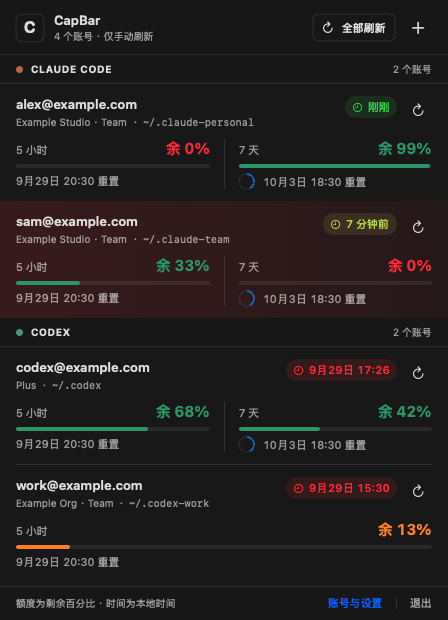
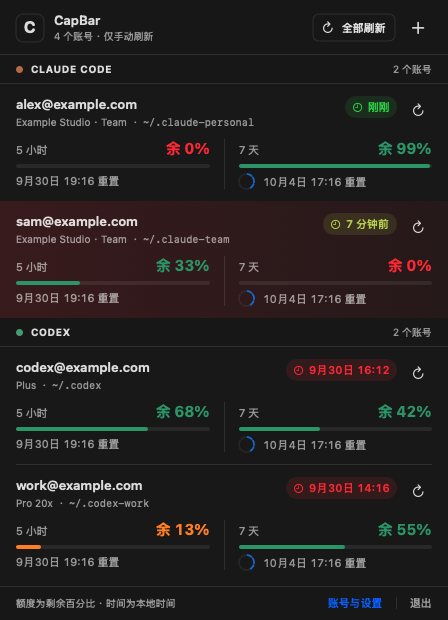
release: prepare CapBar 0.2.0

diff --git a/README.md b/README.md
@@ -1,7 +1,7 @@
 # CapBar
 
 [![CI](https://github.com/kikkimo/CapBar/actions/workflows/ci.yml/badge.svg?branch=main)](https://github.com/kikkimo/CapBar/actions/workflows/ci.yml)
-[![Version 0.1.4](https://img.shields.io/badge/version-0.1.4-2F80ED?style=flat-square)](scripts/Info.plist)
+[![Version 0.2.0](https://img.shields.io/badge/version-0.2.0-2F80ED?style=flat-square)](scripts/Info.plist)
 [![macOS 14+](https://img.shields.io/badge/macOS-14%2B-333333?style=flat-square&logo=apple&logoColor=white)](#install-and-use)
 [![Swift 6](https://img.shields.io/badge/Swift-6-F05138?style=flat-square&logo=swift&logoColor=white)](Package.swift)
 [![Apple Silicon](https://img.shields.io/badge/arch-Apple%20Silicon-0A7F75?style=flat-square)](#build-from-source)
@@ -26,6 +26,7 @@
 - **Clear states:** Refreshing accounts show progress while keeping their previous values. A failed refresh preserves the last successful snapshot and marks the failure.
 - **Native macOS behavior:** Light and dark appearances, a resizable popover, a right-click menu, and an optional launch-at-login setting.
 - **Optional usage trends:** Switch between one total chart per provider and individual account charts. Totals convert each subscription to the first account's capacity before adding usage, and are labeled as estimates because provider 7-day capacity ratios are unverified. Ambiguous plans require a tier selection in Settings. Trend colors adapt to each provider's observed range. Enabling statistics also enables scheduled sampling while CapBar runs; the interval defaults to 4 hours and can be set to 1, 2, 3, 4, 6, or 8 hours. Manual refreshes contribute samples too. Chart bins match the selected interval, with a 2-hour minimum.
+- **Usage analysis:** The provider view shows observed 7-day totals, peak, minimum, average, coverage, leading account, active time periods, and recent 24-hour change. Historical records track rolling 7-day highs and lows, the highest single day, and the highest interval. Missing intervals stay blank; the headline uses the latest fully observed interval.
 
 | 7-day usage trend, dark appearance | 7-day usage trend, light appearance |
 | :---: | :---: |
@@ -35,14 +36,18 @@
 | :---: |
 | ![CapBar individual account usage trends](docs/images/trend-individual-light.png) |
 
-*Trend illustrations use fictional accounts and sample history. The aggregate view is in this development branch and is not part of the current 0.1.4 installer.*
+| Provider usage analysis, dark | Provider usage analysis, light |
+| :---: | :---: |
+| ![CapBar provider usage analysis in dark appearance](docs/images/trend-expanded-dark.png) | ![CapBar provider usage analysis in light appearance](docs/images/trend-expanded-light.png) |
+
+*Trend illustrations use fictional accounts and sample history.*
 
 ## Install and use
 
-CapBar 0.1.4 requires **macOS 14 or later** on **Apple Silicon**. Download the CI-built installer and checksum from [GitHub Releases](https://github.com/kikkimo/CapBar/releases/latest).
+CapBar 0.2.0 requires **macOS 14 or later** on **Apple Silicon**. Download the CI-built installer and checksum from [GitHub Releases](https://github.com/kikkimo/CapBar/releases/latest).
 
-1. Download `CapBar-0.1.4.pkg` and `SHA256SUMS` from the release, then run `shasum -a 256 -c SHA256SUMS` in that folder.
-2. Open `CapBar-0.1.4.pkg`. The installer places the app at `/Applications/CapBar.app`.
+1. Download `CapBar-0.2.0.pkg` and `SHA256SUMS` from the release, then run `shasum -a 256 -c SHA256SUMS` in that folder.
+2. Open `CapBar-0.2.0.pkg`. The installer places the app at `/Applications/CapBar.app`.
 3. Launch CapBar from Applications. It appears in the menu bar, without a Dock icon.
 4. Click the menu bar item to view snapshots. Select **Refresh All (全部刷新)** or refresh an individual account when you want current data.
 
@@ -60,7 +65,7 @@ On first launch, CapBar adds `~/.claude` and `~/.codex` as default entries. Add 
 
 The popover starts at 448 × 620 pt. Enter a precise width or height and submit it, or use the steppers in 10 pt increments. Wider windows rearrange account details horizontally. Snapshots and settings are stored as JSON under `~/Library/Application Support/CapBar/`.
 
-Usage statistics are off by default. Turning them on also starts scheduled quota probes while the app runs; turning them off stops the schedule. Successful probes are kept in a local SQLite history. Charts use UTC intervals and display dates in your local time zone. A complete interval needs enough observations before its usage can appear; missing intervals are not treated as zero usage. The development branch stores the detected or manually selected plan tier alongside new historical samples; older samples without a tier use the current calibrated tier for estimated totals.
+Usage statistics are off by default. Turning them on also starts scheduled quota probes while the app runs; turning them off stops the schedule. Successful probes are kept in a local SQLite history. Charts use UTC intervals and display dates in your local time zone. A complete interval needs enough observations before its usage can appear; missing intervals are not treated as zero usage. New samples store the detected or selected plan tier; older samples without a tier use the current calibrated tier for estimated totals.
 
 ## How quota refresh works
 
@@ -78,7 +83,7 @@ cd CapBar
 ./scripts/package-installer.sh
 ```
 
-The script runs the checks, builds `dist/CapBar.app`, verifies the app bundle, and creates `dist/CapBar-0.1.4.pkg`. It verifies that the package targets `/Applications` **without relocating** to an existing development copy.
+The script runs the checks, builds `dist/CapBar.app`, verifies the app bundle, and creates `dist/CapBar-0.2.0.pkg`. It verifies that the package targets `/Applications` **without relocating** to an existing development copy.
 
 ```sh
 swift run CapBarChecks

diff --git a/docs/README-zh.md b/docs/README-zh.md
@@ -1,7 +1,7 @@
 # CapBar
 
 [![CI](https://github.com/kikkimo/CapBar/actions/workflows/ci.yml/badge.svg?branch=main)](https://github.com/kikkimo/CapBar/actions/workflows/ci.yml)
-[![Version 0.1.4](https://img.shields.io/badge/version-0.1.4-2F80ED?style=flat-square)](../scripts/Info.plist)
+[![Version 0.2.0](https://img.shields.io/badge/version-0.2.0-2F80ED?style=flat-square)](../scripts/Info.plist)
 [![macOS 14+](https://img.shields.io/badge/macOS-14%2B-333333?style=flat-square&logo=apple&logoColor=white)](#安装与使用)
 [![Swift 6](https://img.shields.io/badge/Swift-6-F05138?style=flat-square&logo=swift&logoColor=white)](../Package.swift)
 [![Apple Silicon](https://img.shields.io/badge/arch-Apple%20Silicon-0A7F75?style=flat-square)](#从源码构建)
@@ -26,6 +26,7 @@
 - **状态清楚：** 刷新时显示进度并保留旧额度；失败后继续显示上一次成功快照，同时标记失败。
 - **符合 macOS 的交互：** 支持浅色和深色外观、可调整尺寸的弹窗、菜单栏右键菜单，以及可选的登录时启动。
 - **可选用量走势：** 可切换 Claude、Codex 各一张总走势图与单账号走势图。总走势先按首账号容量折算各订阅的用量再相加；由于各套餐七日容量比例尚未证实，界面明确标记“估算”。无法细分的套餐须在设置中选择档位。曲线颜色按各服务的实际观测范围自适应。开启统计后，CapBar 运行期间会定时采样；间隔默认 4 小时，可选 1、2、3、4、6、8 小时。手动刷新也会写入采样。走势图按所选间隔分组，最短绘图区间为 2 小时。
+- **用量分析：** 服务总览显示近 7 日已观测用量、最高、最低、平均、数据覆盖、贡献最多的账号、活跃时段与近 24 小时变化。历史记录统计滚动 7 日最高和最低用量、最高单日及最高区间。缺测区间保持空白；卡片顶部显示最近一个完整观测区间。
 
 | 深色用量走势 | 浅色用量走势 |
 | :---: | :---: |
@@ -35,14 +36,18 @@
 | :---: |
 | ![CapBar 单账号用量走势](images/trend-individual-light.png) |
 
-*走势示意图使用虚构账号与采样数据。总走势属于当前开发分支，现有 0.1.4 安装包尚未包含此功能。*
+| 深色服务用量分析 | 浅色服务用量分析 |
+| :---: | :---: |
+| ![CapBar 深色服务用量分析](images/trend-expanded-dark.png) | ![CapBar 浅色服务用量分析](images/trend-expanded-light.png) |
+
+*走势示意图使用虚构账号与采样数据。*
 
 ## 安装与使用
 
-CapBar 0.1.4 需要 **macOS 14 或更高版本**及 **Apple Silicon Mac**。从 [GitHub Releases](https://github.com/kikkimo/CapBar/releases/latest) 下载安装包与校验文件；安装包由 CI 从对应版本源码构建。
+CapBar 0.2.0 需要 **macOS 14 或更高版本**及 **Apple Silicon Mac**。从 [GitHub Releases](https://github.com/kikkimo/CapBar/releases/latest) 下载安装包与校验文件；安装包由 CI 从对应版本源码构建。
 
-1. 下载 `CapBar-0.1.4.pkg` 和 `SHA256SUMS`，在下载目录运行 `shasum -a 256 -c SHA256SUMS`。
-2. 打开 `CapBar-0.1.4.pkg`；应用会安装到 `/Applications/CapBar.app`。
+1. 下载 `CapBar-0.2.0.pkg` 和 `SHA256SUMS`，在下载目录运行 `shasum -a 256 -c SHA256SUMS`。
+2. 打开 `CapBar-0.2.0.pkg`；应用会安装到 `/Applications/CapBar.app`。
 3. 从“应用程序”启动 CapBar。它只显示在菜单栏，不显示 Dock 图标。
 4. 点击菜单栏图标查看快照；需要最新额度时，手动点“全部刷新”或某个账号旁的刷新按钮。
 
@@ -60,7 +65,7 @@ CapBar 0.1.4 需要 **macOS 14 或更高版本**及 **Apple Silicon Mac**。从 
 
 弹窗默认尺寸为 448 × 620 pt。宽、高可以输入精确数值后提交，也可以用上下按钮每次调整 10 pt；窗口加宽后，账号信息会横向排布。设置和额度快照以 JSON 文件保存在 `~/Library/Application Support/CapBar/`。
 
-用量统计默认关闭。开启后，应用运行期间会定时探测额度；关闭统计会停止定时采样。成功采集的记录保存在本机 SQLite 中。走势图按 UTC 区间计算，以本地时区显示日期；只有采样覆盖完整区间后才显示用量，缺测区间不会当作 0%。开发分支的新采样会一并记录当时识别或手动选择的套餐档位；旧采样没有档位时，总走势暂按当前校准档位估算。
+用量统计默认关闭。开启后，应用运行期间会定时探测额度；关闭统计会停止定时采样。成功采集的记录保存在本机 SQLite 中。走势图按 UTC 区间计算，以本地时区显示日期；只有采样覆盖完整区间后才显示用量，缺测区间不会当作 0%。新采样会一并记录当时识别或手动选择的套餐档位；旧采样没有档位时，总走势暂按当前校准档位估算。
 
 ## 额度如何刷新
 
@@ -78,7 +83,7 @@ cd CapBar
 ./scripts/package-installer.sh
 ```
 
-脚本会运行项目检查，构建并验证 `dist/CapBar.app`，生成 `dist/CapBar-0.1.4.pkg`，同时检查安装包固定安装到 `/Applications`，不会定位到开发目录中的旧应用。
+脚本会运行项目检查，构建并验证 `dist/CapBar.app`，生成 `dist/CapBar-0.2.0.pkg`，同时检查安装包固定安装到 `/Applications`，不会定位到开发目录中的旧应用。
 
 ```sh
 swift run CapBarChecks

diff --git a/docs/releases/v0.2.0.md b/docs/releases/v0.2.0.md
@@ -1,0 +1,21 @@
+CapBar 0.2.0 adds optional usage analysis for Claude Code and Codex accounts.
+
+- Switch between individual 7-day usage charts and a provider-wide total. Totals convert account usage to the first account's subscription capacity before adding it, and are marked as estimates because provider capacity ratios are not verified.
+- Hover over a total chart to compare each account's contribution with aligned bars. The charts leave unobserved intervals blank.
+- See observed 7-day usage statistics, recent 24-hour change, and historical records for rolling 7-day windows, single days, and intervals. Historical summaries are cached in SQLite and recalculated when samples change.
+- Enable usage statistics to sample while CapBar is running. Choose a 1, 2, 3, 4, 6, or 8-hour interval; manual refreshes also add samples. The feature is off by default.
+- The total headline now uses the latest fully observed interval. Older samples without subscription metadata no longer create a false chart gap when a later sample records the tier; a confirmed tier change still leaves the affected interval blank.
+
+CapBar 0.2.0 新增可选的 Claude Code 与 Codex 用量分析。
+
+- 可在单账号 7 日走势与各服务的总走势之间切换。合计前会将各账号用量折算到首账号的订阅容量；由于套餐容量比例尚未核实，界面将结果标记为估算。
+- 悬停在总走势图上，可用对齐的横条比较各账号贡献；没有完整观测的区间仍保持空白。
+- 查看近 7 日已观测用量指标、近 24 小时变化，以及滚动 7 日、单日和单区间的历史记录。历史汇总缓存在 SQLite 中，采样变化后会重新计算。
+- 开启用量统计后，CapBar 运行期间按所选的 1、2、3、4、6 或 8 小时间隔采样；手动刷新也会增加采样。该功能默认关闭。
+- 总走势卡片显示最近一个完整观测区间。旧样本缺少订阅档位时，不再因为后续样本补充档位而错误断线；明确发生档位变化的区间仍留空。
+
+### Install / 安装
+
+Download `CapBar-0.2.0.pkg` and `SHA256SUMS` below. Verify the package with `shasum -a 256 -c SHA256SUMS`, then install it on an Apple Silicon Mac running macOS 14 or later. The package installs CapBar at `/Applications/CapBar.app`.
+
+The installer has no Apple Developer ID signature or notarization. macOS may require an explicit choice in Privacy & Security to open the app.
